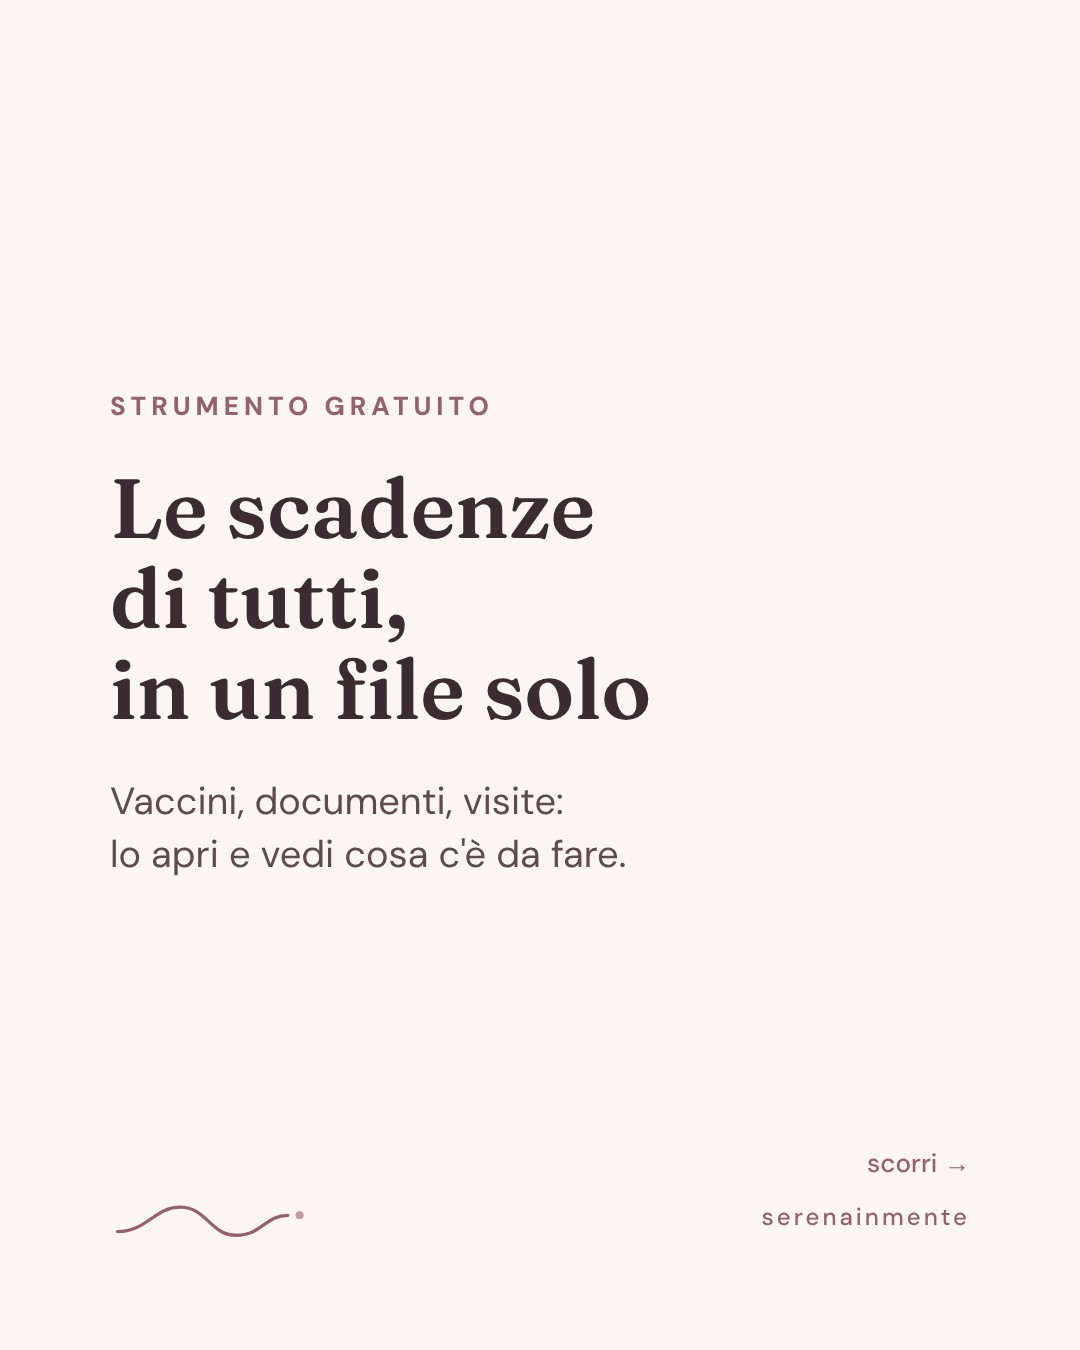
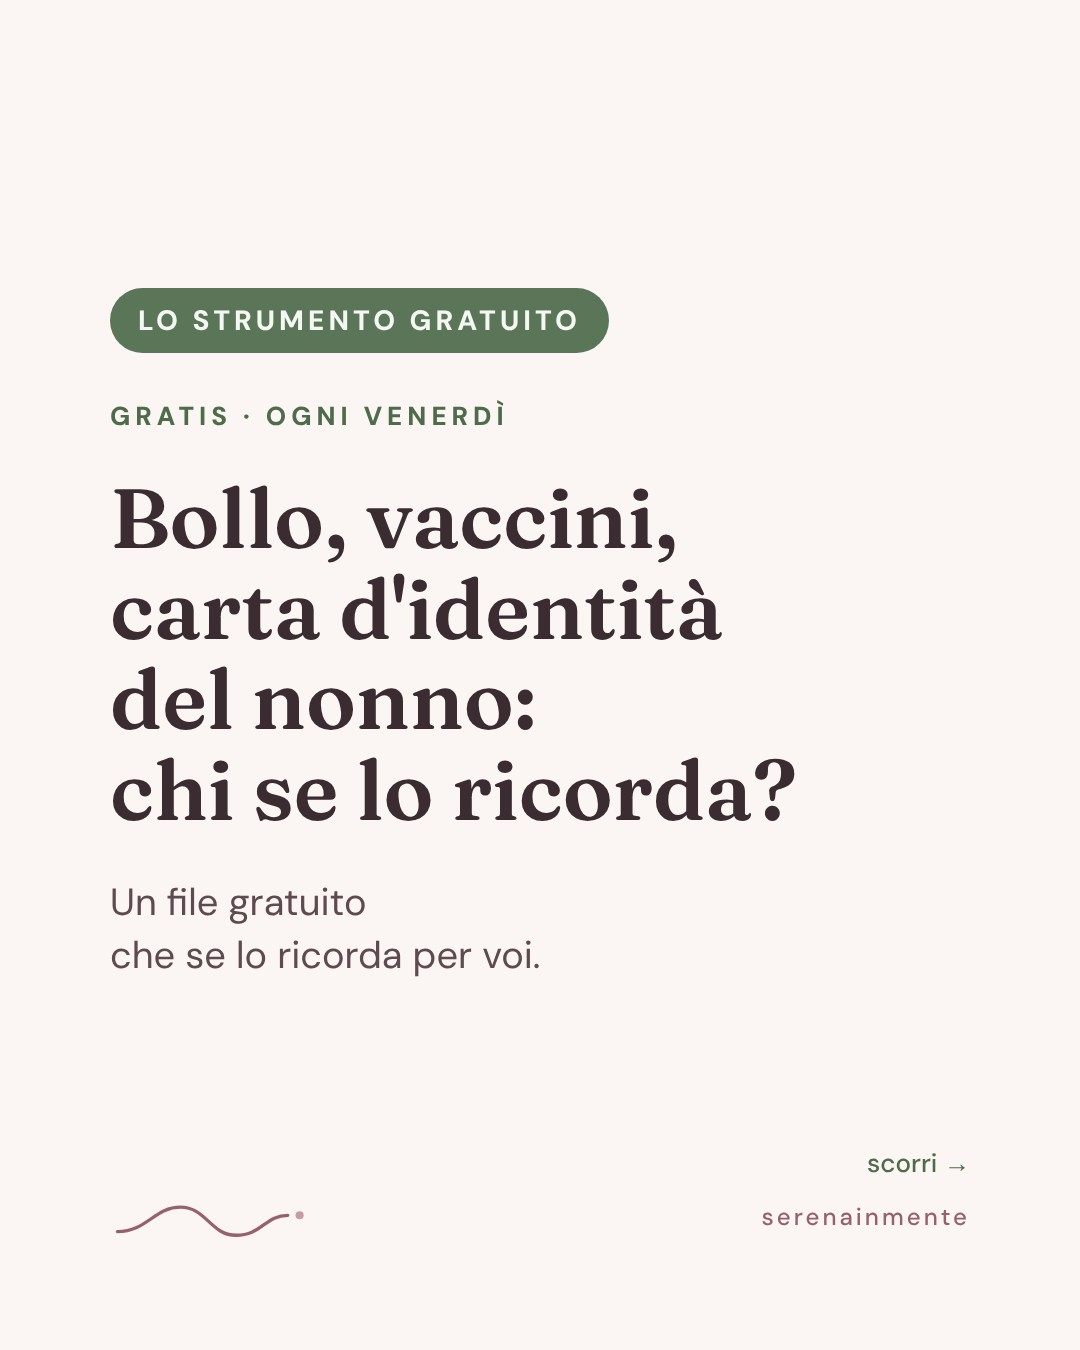
Post strumento del 27/11 rifatto secondo gli esperti (9 schede con esempio compilato); render.js: tipi tabella e zoom
Claude-Session: https://claude.ai/code/session_01PexKGrEoahLuMFXSH7a2SF

Changed region(s): [[0.0917, 0.3422, 0.7333, 0.7156], [0.0917, 0.1867, 0.5806, 0.3111], [0.7944, 0.84, 0.8556, 0.8711]]

diff --git a/gen/grafiche/render.js b/gen/grafiche/render.js
@@ -4,6 +4,8 @@
 //   tipo "frase"      → frase, stile: "" (frase breve minuscola) | "pensiero" | "forte" | "riconoscimento" | "parola"
 //                       per "parola": parola, numero (n. del vocabolario), frase = definizione
 //                       freccia: true → aggiunge "→" (prima slide di una frase a sospeso)
+//   tipo "tabella" → etichetta, titolo, colonne[], righe[][], stato (indice colonna con chip), numeri (indice colonna numerica), nota
+//   tipo "zoom"    → etichetta, titolo, r1, r2, chip, testo
 //   tipo "copertina"  → etichetta, titolo, sottotitolo [, rubrica, aggiornato]
 //   "rub": true su qualunque scheda → accenti verde scuro (rubrica Notizie utili, sfondo #E8EEE6)   (prima slide di carosello o pratico)
 //   tipo "passo"      → numero, titolo, testo            (slide centrali)
@@ -40,6 +42,15 @@ const css = `
 .arrow{position:absolute;right:110px;top:1190px;font-family:Fraunces,serif;font-size:64px;color:#97606F}
 .story.c{height:1920px}.story .f{top:560px;height:640px}.story .t{top:1290px}.story .s{top:1640px}
 /* caroselli */
+.tab{width:100%;border-collapse:separate;border-spacing:0;background:#fff;border-radius:18px;overflow:hidden;box-shadow:0 24px 50px -30px rgba(58,44,48,.45);font-family:'DM Sans',sans-serif}
+.tab th{background:#4A383D;color:#FBF6F4;font-weight:800;font-size:19px;letter-spacing:1px;text-transform:uppercase;text-align:left;padding:16px 14px}
+.tab td{font-size:24px;line-height:1.25;padding:16px 14px;border-top:1px solid #EFE6E8;color:#3A2C30;vertical-align:middle}
+.tab td.n{font-weight:800;text-align:right;white-space:nowrap}
+.chip{display:inline-block;border-radius:30px;padding:6px 14px;font-size:19px;font-weight:800;white-space:nowrap}
+.chip.sa{background:#F6D8D2;color:#8A3B2E}.chip.sb{background:#F8EBC8;color:#7A5A12}.chip.sc{background:#E3EDE0;color:#3F5C3B}
+.card{background:#fff;border-radius:26px;padding:44px 48px;box-shadow:0 24px 50px -30px rgba(58,44,48,.45);display:flex;flex-direction:column;gap:18px;font-family:'DM Sans',sans-serif}
+.card .r1{font-size:30px;color:#6B575C}.card .r2{font-family:Fraunces,serif;font-size:64px;line-height:1.1}.card .r3{font-size:44px;font-weight:800}
+
 .rub .eti,.rub .scorri,.rub .agg{color:#4F6B4C}.rub .num{background:#5B7558;color:#F4F7F2}.pill{align-self:flex-start;background:#5B7558;color:#F4F7F2;font-family:'DM Sans',sans-serif;font-weight:800;font-size:28px;letter-spacing:4px;padding:14px 28px;border-radius:44px;text-transform:uppercase;margin-bottom:6px}.agg{font-family:'DM Sans',sans-serif;font-weight:500;font-size:26px;margin-top:6px}
 .densa .k{gap:26px}.densa .pt{font-size:60px}.densa .px{font-size:34px;line-height:1.45}
 .k{position:absolute;left:110px;right:110px;top:150px;bottom:230px;display:flex;flex-direction:column;justify-content:center;gap:40px}
@@ -76,6 +87,14 @@ function corpo(it) {
     return `<div class="k"><div class="num">${esc(it.numero)}</div><div class="pt">${esc(it.titolo)}</div><div class="px">${esc(it.testo)}</div></div>${piede}`;
   if (tipo === 'chiusura')
     return `<div class="k"><div class="eti">${esc(it.etichetta || 'in pratica')}</div><div class="ct">${esc(it.titolo)}</div>${it.testo ? `<div class="px">${esc(it.testo)}</div>` : ''}${it.fonte || it.nota ? `<div class="box">${it.fonte ? `<div class="fo">${esc(it.fonte)}</div>` : ''}${it.nota ? `<div class="no">${esc(it.nota)}</div>` : ''}</div>` : ''}</div>${piede}`;
+  if (tipo === 'tabella') {
+    const cls = v => /settimana|scadut/i.test(v) ? 'sa' : /30 giorni/i.test(v) ? 'sb' : 'sc';
+    const th = it.colonne.map(c => `<th>${esc(c)}</th>`).join('');
+    const tr = it.righe.map(r => `<tr>${r.map((v, i) => i === it.stato ? `<td><span class="chip ${cls(v)}">${esc(v)}</span></td>` : `<td class="${i === it.numeri ? 'n' : ''}">${esc(v)}</td>`).join('')}</tr>`).join('');
+    return `<div class="k" style="gap:30px"><div class="eti">${esc(it.etichetta || '')}</div><div class="ct">${esc(it.titolo)}</div><table class="tab"><tr>${th}</tr>${tr}</table>${it.nota ? `<div class="no">${esc(it.nota)}</div>` : ''}</div>${piede}`;
+  }
+  if (tipo === 'zoom')
+    return `<div class="k"><div class="eti">${esc(it.etichetta || '')}</div><div class="ct">${esc(it.titolo)}</div><div class="card"><div class="r1">${esc(it.r1)}</div><div class="r2">${esc(it.r2)}</div><div class="r3">${it.chip ? `<span class="chip sa" style="font-size:34px;padding:10px 22px">${esc(it.chip)}</span>` : ''}</div></div>${it.testo ? `<div class="px">${esc(it.testo)}</div>` : ''}</div>${piede}`;
   throw new Error('tipo sconosciuto: ' + tipo);
 }
 
